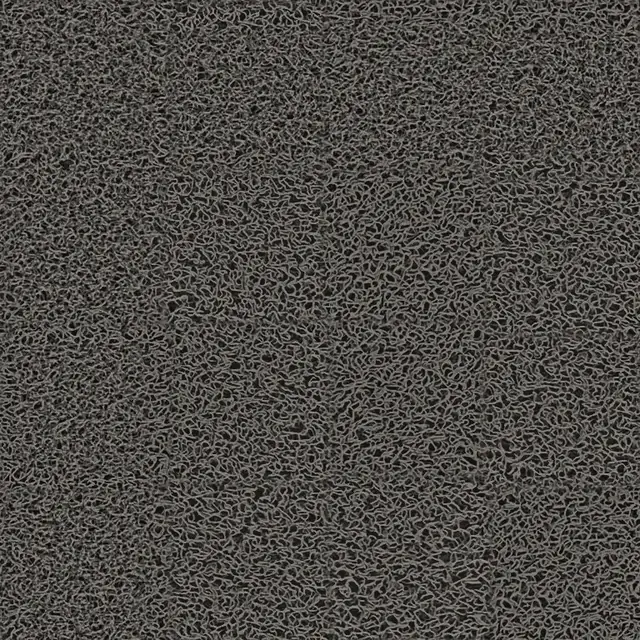
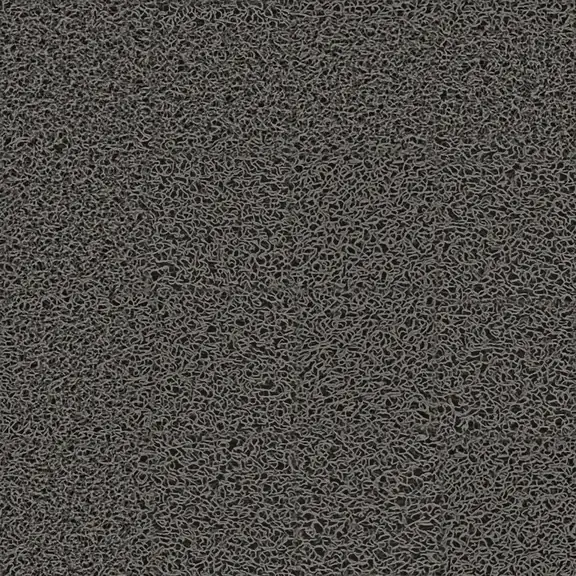
Fonte Inter servida pelo próprio site e textura do topo mais leve
- Inter (latim, pesos 400 a 900) em /assets/fonts: sem conexões extras com o Google Fonts
- Textura do capacho do topo em 576 px (133 KB -> 108 KB)
- Política de privacidade atualizada (o site não usa mais o Google Fonts)

diff --git a/public/privacidade/index.html b/public/privacidade/index.html
@@ -9,11 +9,10 @@
   <link rel="canonical" href="https://site-cia-do-tapete.vercel.app/privacidade">
   <meta name="theme-color" content="#0F0E0D">
   <link rel="icon" type="image/png" sizes="64x64" href="/assets/favicon.png">
-  <link rel="preconnect" href="https://fonts.googleapis.com">
-  <link rel="preconnect" href="https://fonts.gstatic.com" crossorigin>
-  <link rel="preload" as="style" href="https://fonts.googleapis.com/css2?family=Inter:wght@400..900&display=swap" onload="this.onload=null;this.rel='stylesheet'">
-  <noscript><link rel="stylesheet" href="https://fonts.googleapis.com/css2?family=Inter:wght@400..900&display=swap"></noscript>
   <style>
+/* Inter servida pelo próprio site (só os caracteres latinos, pesos 400 a 900): sem conexão extra com o Google */
+@font-face { font-family: 'Inter'; font-style: normal; font-weight: 400 900; font-display: swap; src: url('/assets/fonts/inter-latin.woff2') format('woff2'); unicode-range: U+0000-00FF, U+0131, U+0152-0153, U+02BB-02BC, U+02C6, U+02DA, U+02DC, U+0304, U+0308, U+0329, U+2000-206F, U+20AC, U+2122, U+2191, U+2193, U+2212, U+2215, U+FEFF, U+FFFD; }
+
 /* =========================================================
    Cia do Tapete 2026
    ========================================================= */
@@ -1355,7 +1354,7 @@ html, body { overflow-x: clip; }
         <li><b>Botão do WhatsApp.</b> Ao clicar, o WhatsApp abre com uma mensagem pronta. O que você escreve no site, como o nome da sua empresa ou o seu CEP, vai só dentro dessa mensagem: o site não guarda nada disso. A conversa acontece no WhatsApp.</li>
         <li><b>De onde veio a visita.</b> Se você chegou por um anúncio, o site lê o nome da campanha no endereço da página e o coloca na mensagem do WhatsApp, para sabermos qual anúncio funcionou. Essa informação fica só no seu navegador e some quando você fecha a aba.</li>
         <li><b>A sua escolha sobre cookies.</b> Fica guardada no seu navegador, para não perguntarmos de novo a cada visita.</li>
-        <li><b>Dados técnicos de acesso.</b> A empresa que hospeda o site (Vercel) registra dados técnicos, como o endereço IP, para manter o site no ar e seguro. A fonte do site vem do Google Fonts, então o seu navegador se conecta ao Google para baixá-la.</li>
+        <li><b>Dados técnicos de acesso.</b> A empresa que hospeda o site (Vercel) registra dados técnicos, como o endereço IP, para manter o site no ar e seguro.</li>
       </ul>
 
       <h2>Para que usamos</h2>
@@ -1366,7 +1365,7 @@ html, body { overflow-x: clip; }
       </ul>
 
       <h2>Com quem compartilhamos</h2>
-      <p>Só com os serviços que fazem o site e o atendimento funcionarem: a Meta (Pixel e WhatsApp), o Google (fonte do site) e a Vercel (hospedagem). Cada uma tem a sua própria política de privacidade. Não vendemos os seus dados para ninguém.</p>
+      <p>Só com os serviços que fazem o site e o atendimento funcionarem: a Meta (Pixel e WhatsApp) e a Vercel (hospedagem). Cada uma tem a sua própria política de privacidade. Não vendemos os seus dados para ninguém.</p>
 
       <h2>Por quanto tempo guardamos</h2>
       <ul>

diff --git a/index.html b/index.html
@@ -19,15 +19,12 @@
   <meta name="twitter:card" content="summary_large_image">
   <link rel="icon" type="image/png" sizes="64x64" href="/assets/favicon.png">
   <link rel="apple-touch-icon" href="/assets/logo.png">
-
-  <link rel="preconnect" href="https://fonts.googleapis.com">
-  <link rel="preconnect" href="https://fonts.gstatic.com" crossorigin>
-  <!-- a fonte não segura o desenho da página: carrega em paralelo e entra quando chegar (display=swap) -->
-  <link rel="preload" as="style" href="https://fonts.googleapis.com/css2?family=Inter:wght@400..900&display=swap" onload="this.onload=null;this.rel='stylesheet'">
-  <noscript><link rel="stylesheet" href="https://fonts.googleapis.com/css2?family=Inter:wght@400..900&display=swap"></noscript>
   <!-- a textura do capacho do topo é o maior elemento da primeira tela: vem antes de tudo -->
   <link rel="preload" as="image" href="/assets/vinyl-base.webp" fetchpriority="high">
   <style>
+/* Inter servida pelo próprio site (só os caracteres latinos, pesos 400 a 900): sem conexão extra com o Google */
+@font-face { font-family: 'Inter'; font-style: normal; font-weight: 400 900; font-display: swap; src: url('/assets/fonts/inter-latin.woff2') format('woff2'); unicode-range: U+0000-00FF, U+0131, U+0152-0153, U+02BB-02BC, U+02C6, U+02DA, U+02DC, U+0304, U+0308, U+0329, U+2000-206F, U+20AC, U+2122, U+2191, U+2193, U+2212, U+2215, U+FEFF, U+FFFD; }
+
 /* =========================================================
    Cia do Tapete 2026
    ========================================================= */

diff --git a/public/assets/style.css b/public/assets/style.css
@@ -1,3 +1,6 @@
+/* Inter servida pelo próprio site (só os caracteres latinos, pesos 400 a 900): sem conexão extra com o Google */
+@font-face { font-family: 'Inter'; font-style: normal; font-weight: 400 900; font-display: swap; src: url('fonts/inter-latin.woff2') format('woff2'); unicode-range: U+0000-00FF, U+0131, U+0152-0153, U+02BB-02BC, U+02C6, U+02DA, U+02DC, U+0304, U+0308, U+0329, U+2000-206F, U+20AC, U+2122, U+2191, U+2193, U+2212, U+2215, U+FEFF, U+FFFD; }
+
 /* =========================================================
    Cia do Tapete 2026
    ========================================================= */
